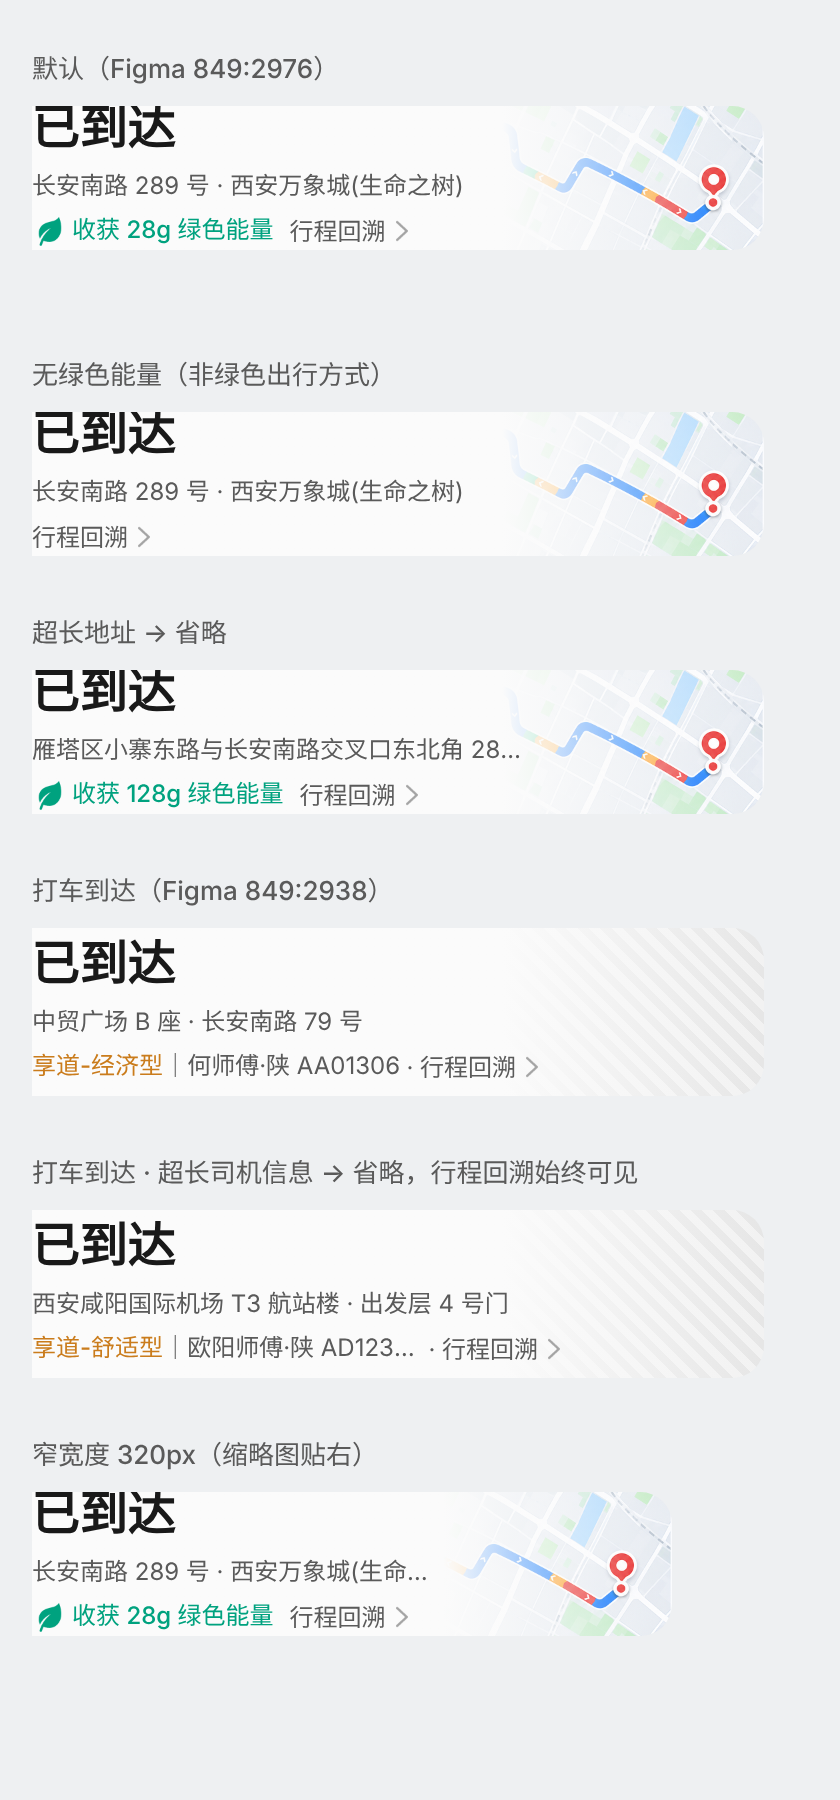
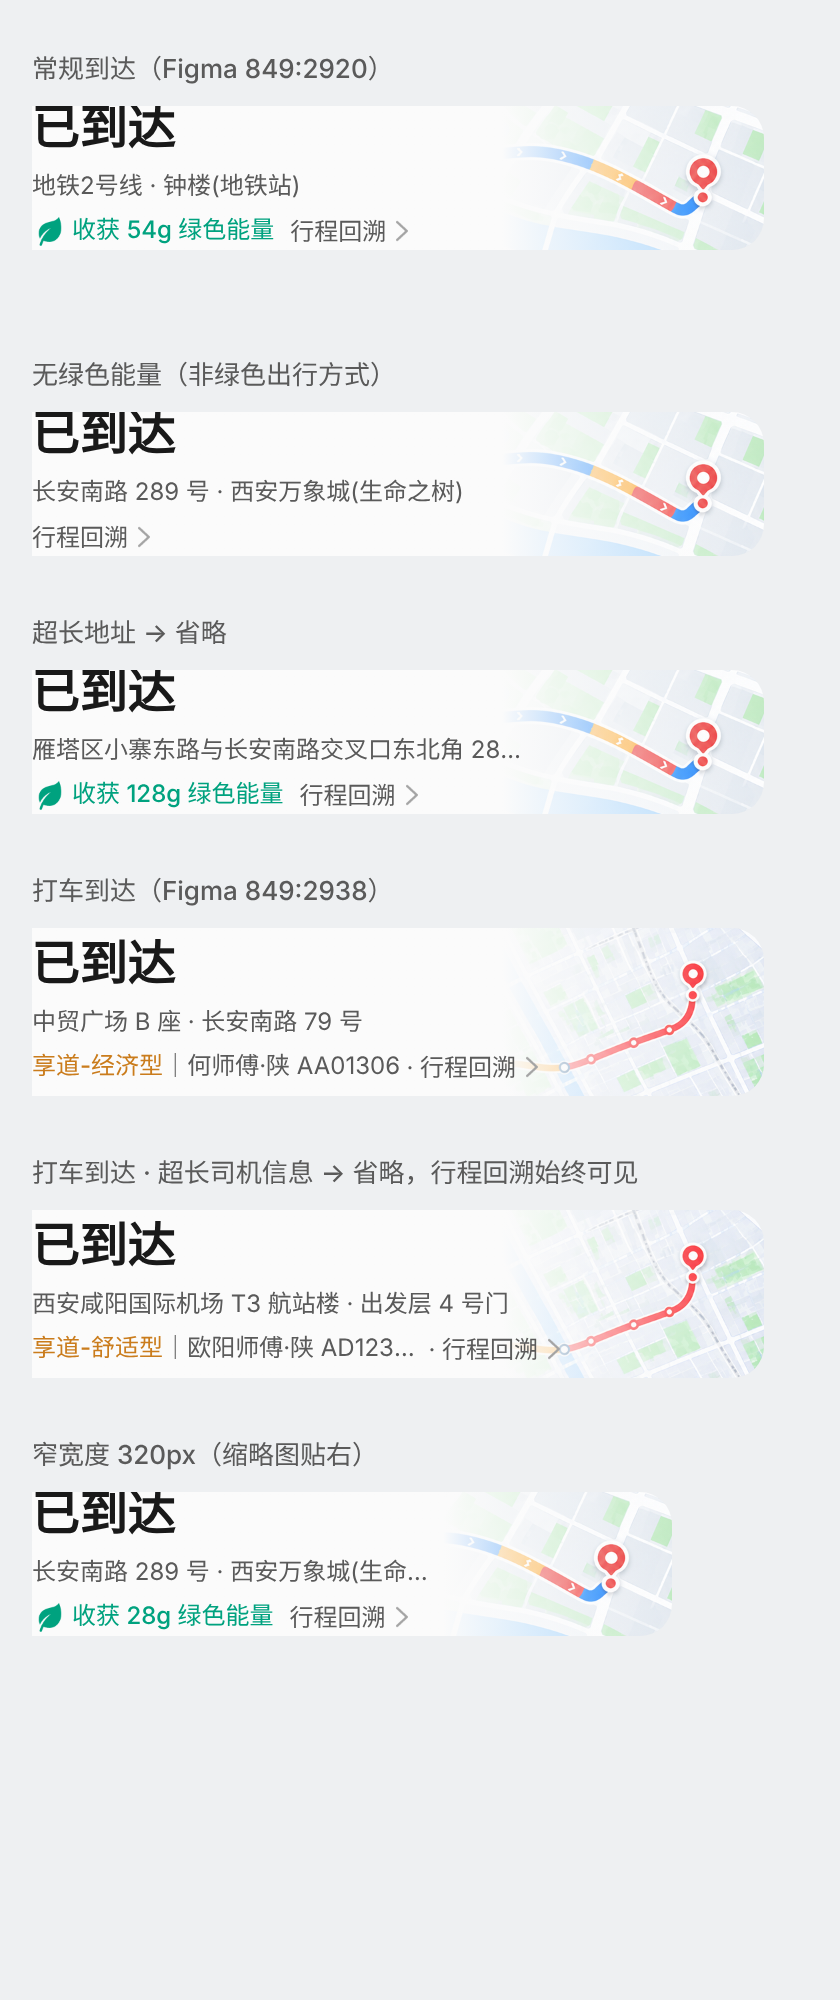
feat(header): 接入两张裁好的地图素材，统一缩略图规则
- 缩略图改为 header 内可见区域：贴右、高度 100%，常规 212、打车 319
- 删除负偏移 / 放大裁切相关 token；渐隐停点两个变体统一为 64.247%
- 预览页默认态改为与 Figma 849:2920 同样的文案

Claude-Session: https://claude.ai/code/session_01HmosH7j6FmjJ8BokUZHb64

diff --git a/components/header/header.css b/components/header/header.css
@@ -12,9 +12,7 @@
   --header-gap-meta-rows: var(--ds-space-6);
   --header-gap-actions: var(--ds-space-8);
   --header-gap-icon-label: var(--ds-space-2);
-  --header-thumb-size: 216px;
-  --header-thumb-offset-end: -4px;
-  --header-thumb-offset-top: -85px;
+  --header-thumb-width: 212px; /* 地图缩略图 = header 内可见区域，素材按此尺寸 @3x 裁好 */
   --header-eco-icon-w: 18px;
   --header-eco-icon-h: 17px;
   --header-chevron-size: 17px;
@@ -34,14 +32,15 @@
   font-style: normal;
 }
 
-/* 地图缩略图：锚定右侧，宽度变化时始终贴右 */
+/* 地图缩略图：贴右、铺满高度，宽度变化时始终贴右 */
 .amap-header__thumb {
   position: absolute;
-  top: var(--header-thumb-offset-top);
-  right: var(--header-thumb-offset-end);
-  width: var(--header-thumb-size);
-  height: var(--header-thumb-size);
+  top: 0;
+  right: 0;
+  width: var(--header-thumb-width);
+  height: 100%;
   object-fit: cover;
+  object-position: right center;
   pointer-events: none;
 }
 
@@ -155,17 +154,9 @@
 /* ── 变体：打车到达（Figma 849:2938） ── */
 .amap-header--taxi {
   --header-height: 84px;
-  --header-fade-stop: 64.323%;
   --header-content-align: center;
-  --header-thumb-width: 323.264px;
-  --header-thumb-height: 245px;
-  --header-thumb-offset-end: -4.264px;
-  --header-thumb-offset-top: -52px;
+  --header-thumb-width: 319px;
   --header-meta-reserve: 96px;
-}
-.amap-header--taxi .amap-header__thumb {
-  width: var(--header-thumb-width);
-  height: var(--header-thumb-height);
 }
 
 /* 一行多段，「·」分隔，段间距 2 */

diff --git a/components/header/header.js b/components/header/header.js
@@ -2,7 +2,7 @@
  * <amap-arrival-header> · 到达页 Header
  *
  * 变体（variant）
- *   regular  常规到达（默认）  Figma 849:2976 / 849:2920
+ *   regular  常规到达（默认）  Figma 849:2920
  *   taxi     打车到达          Figma 849:2938
  *
  * 通用属性
@@ -23,8 +23,8 @@
  *   trip-replay  点击「行程回溯」时派发（bubbles, composed）
  */
 const ASSETS = {
-  regular: { thumb: 'header-map-thumb.png', w: 216, h: 216 },
-  taxi: { thumb: 'header-map-thumb-taxi.png', w: 323, h: 245 },
+  regular: { thumb: 'header-map-thumb.png', w: 212, h: 72 },
+  taxi: { thumb: 'header-map-thumb-taxi.png', w: 319, h: 84 },
   eco: 'icon-green-energy.png',
   chevron: 'icon-arrow-right.png',
 };

diff --git a/preview/header.html b/preview/header.html
@@ -14,8 +14,8 @@
   </style>
 </head>
 <body>
-  <h2>默认（Figma 849:2976）</h2>
-  <amap-arrival-header id="default" address="长安南路 289 号 · 西安万象城(生命之树)" energy="28" asset-base="../assets/"></amap-arrival-header>
+  <h2>常规到达（Figma 849:2920）</h2>
+  <amap-arrival-header id="default" address="地铁2号线 · 钟楼(地铁站)" energy="54" asset-base="../assets/"></amap-arrival-header>
   <div id="log"></div>
 
   <h2>无绿色能量（非绿色出行方式）</h2>

diff --git a/README.md b/README.md
@@ -23,7 +23,7 @@ assets/      从 Figma 导出的素材
 
 | 变体 | `variant` | Figma | 高度 |
 |---|---|---|---|
-| 常规到达 | `regular`（默认） | `849:2976` / `849:2920` | 72 |
+| 常规到达 | `regular`（默认） | `849:2920` | 72 |
 | 打车到达 | `taxi` | `849:2938` | 84，内容垂直居中 |
 
 ```html
@@ -51,11 +51,11 @@ assets/      从 Figma 导出的素材
 
 事件：`trip-replay`（点击行程回溯）。
 
-素材（`assets/`，均为 @3x PNG）：
+素材（`assets/`，均为 @3x PNG；地图只导出 header 内可见的那块）：
 
 | 文件名 | Figma 节点 | 尺寸 |
 |---|---|---|
-| `header-map-thumb.png` | `849:2977` image 6 | 216×216 |
-| `header-map-thumb-taxi.png` | `849:2939` image 7 | 323×245 · **待导出** |
+| `header-map-thumb.png` | `849:2921` image 8（可见区域） | 212×72 |
+| `header-map-thumb-taxi.png` | `849:2939` image 7（可见区域） | 319×84 |
 | `icon-green-energy.png` | `849:2986` Frame | 18×17 |
 | `icon-arrow-right.png` | `849:2992` ic:baseline-keyboard-arrow-right | 17×17 |
